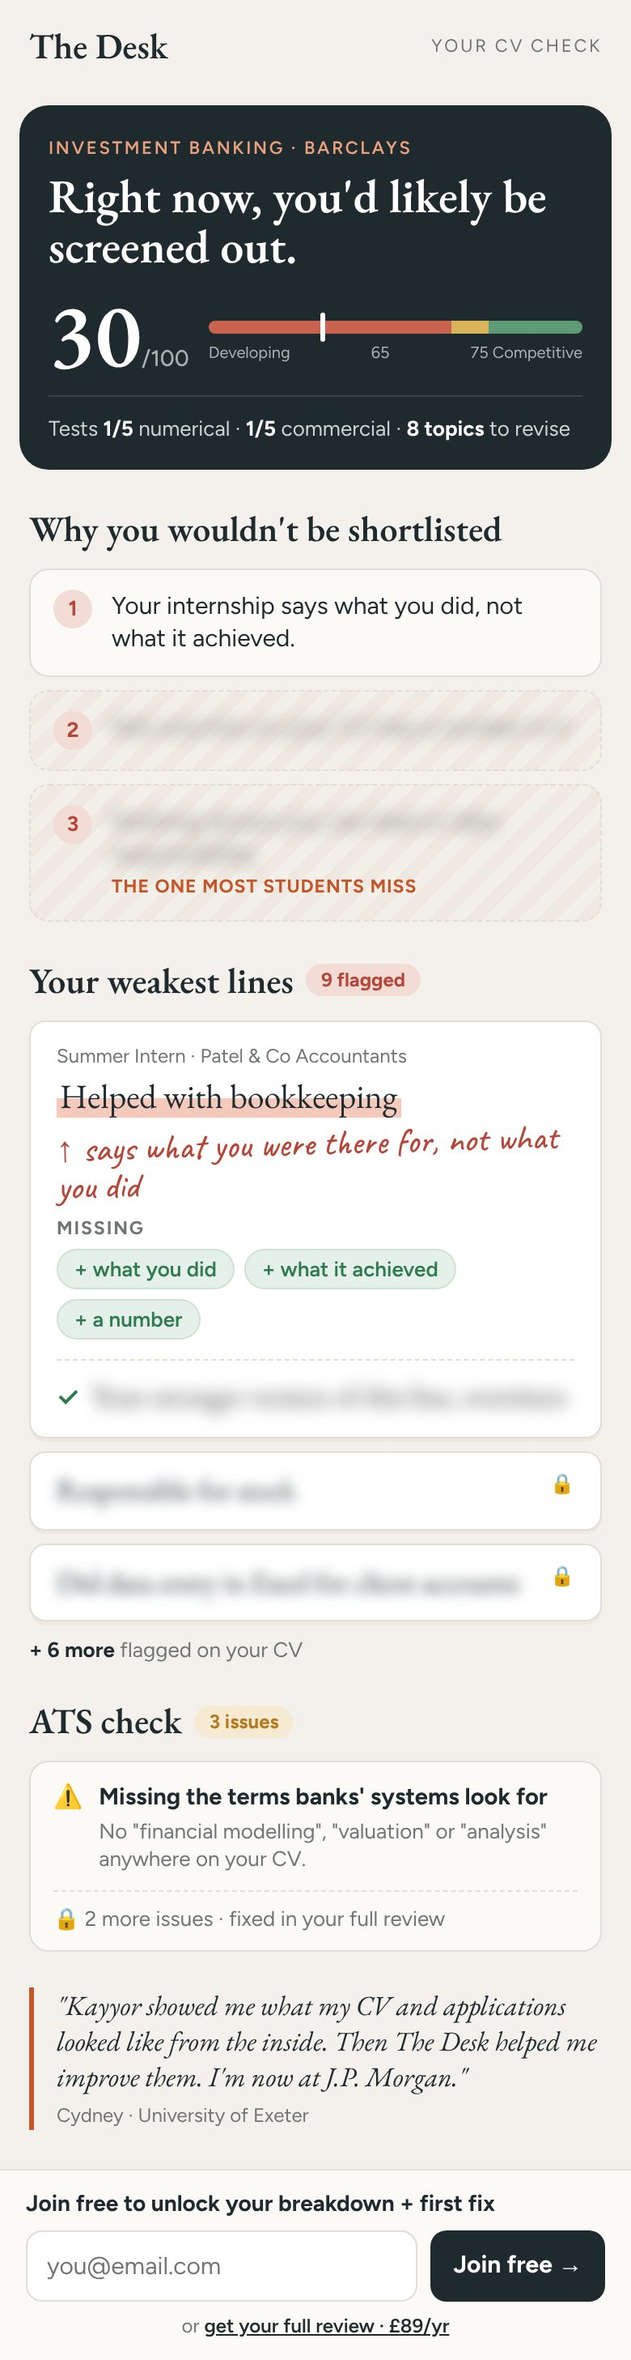
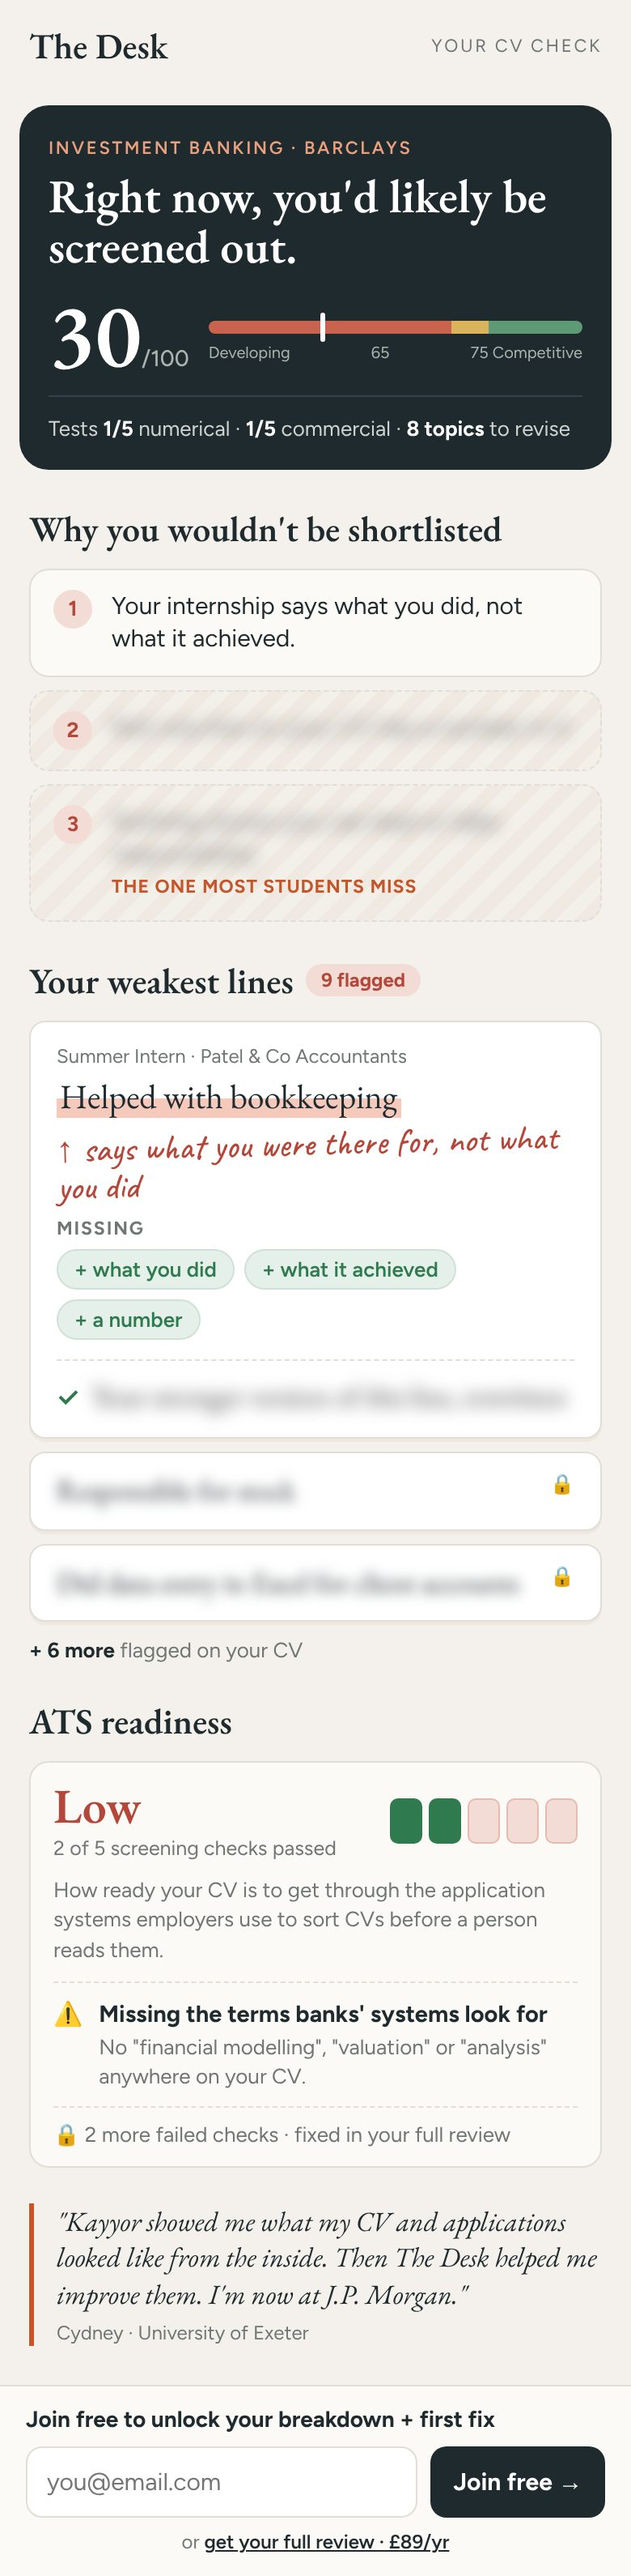
v6: ATS readiness meter
Claude-Session: https://claude.ai/code/session_014HX912Q8GYBLs9Jx181D89

Changed region(s): [[0.0308, 0.0, 0.9846, 0.9993], [0.8, 0.4372, 0.8615, 0.4997], [0.7385, 0.3435, 0.7692, 0.3747]]

diff --git a/design/free-check-v6-mock.html b/design/free-check-v6-mock.html
@@ -121,10 +121,17 @@ body.unlocked .l-only{display:none}
 </div>
 
 <div class="sec">
-  <h2>ATS check <span class="pill amb">3 issues</span></h2>
+  <h2>ATS readiness</h2>
   <div class="ats">
-    <div class="i"><span>⚠</span><div><b>Missing the terms banks' systems look for</b><div class="eg">No "financial modelling", "valuation" or "analysis" anywhere on your CV.</div></div></div>
-    <div class="lockrow">🔒 2 more issues · fixed in your full review</div>
+    <div style="display:flex;align-items:center;justify-content:space-between;gap:12px">
+      <div><div style="font-family:'EB Garamond',serif;font-weight:600;font-size:30px;line-height:1;color:var(--bad)">Low</div>
+      <div style="font-size:12.5px;color:var(--muted);margin-top:3px">2 of 5 screening checks passed</div></div>
+      <div style="display:flex;gap:4px">
+        <i style="width:20px;height:28px;border-radius:5px;background:var(--good)"></i><i style="width:20px;height:28px;border-radius:5px;background:var(--good)"></i><i style="width:20px;height:28px;border-radius:5px;background:#f3dcd6;border:1px solid #e8b9ae"></i><i style="width:20px;height:28px;border-radius:5px;background:#f3dcd6;border:1px solid #e8b9ae"></i><i style="width:20px;height:28px;border-radius:5px;background:#f3dcd6;border:1px solid #e8b9ae"></i></div>
+    </div>
+    <div style="font-size:13px;color:var(--muted);margin:10px 0 10px;line-height:1.4">How ready your CV is to get through the application systems employers use to sort CVs before a person reads them.</div>
+    <div class="i" style="border-top:1px dashed var(--line);padding-top:10px"><span>⚠</span><div><b>Missing the terms banks' systems look for</b><div class="eg">No "financial modelling", "valuation" or "analysis" anywhere on your CV.</div></div></div>
+    <div class="lockrow">🔒 2 more failed checks · fixed in your full review</div>
   </div>
 </div>
 
@@ -134,7 +141,7 @@ body.unlocked .l-only{display:none}
   <div class="k">£89 · your full review + every tool</div>
   <h3>Get every line fixed before Barclays sees it.</h3>
   <ul>
-    <li><span class="t">✓</span><span><em>All 9 CV lines</em> fixed, plus all 3 ATS issues</span></li>
+    <li><span class="t">✓</span><span><em>All 9 CV lines</em> fixed, and your <em>ATS readiness</em> raised</span></li>
     <li><span class="t">✓</span><span>Your <em>Barclays application answers</em> drafted from your CV</span></li>
     <li><span class="t">✓</span><span>Interview practice: <em>6 Barclays questions</em>, scored and fixed</span></li>
     <li><span class="t">✓</span><span>Your <em>8 weak test topics</em>, with 2,000+ practice questions</span></li>
